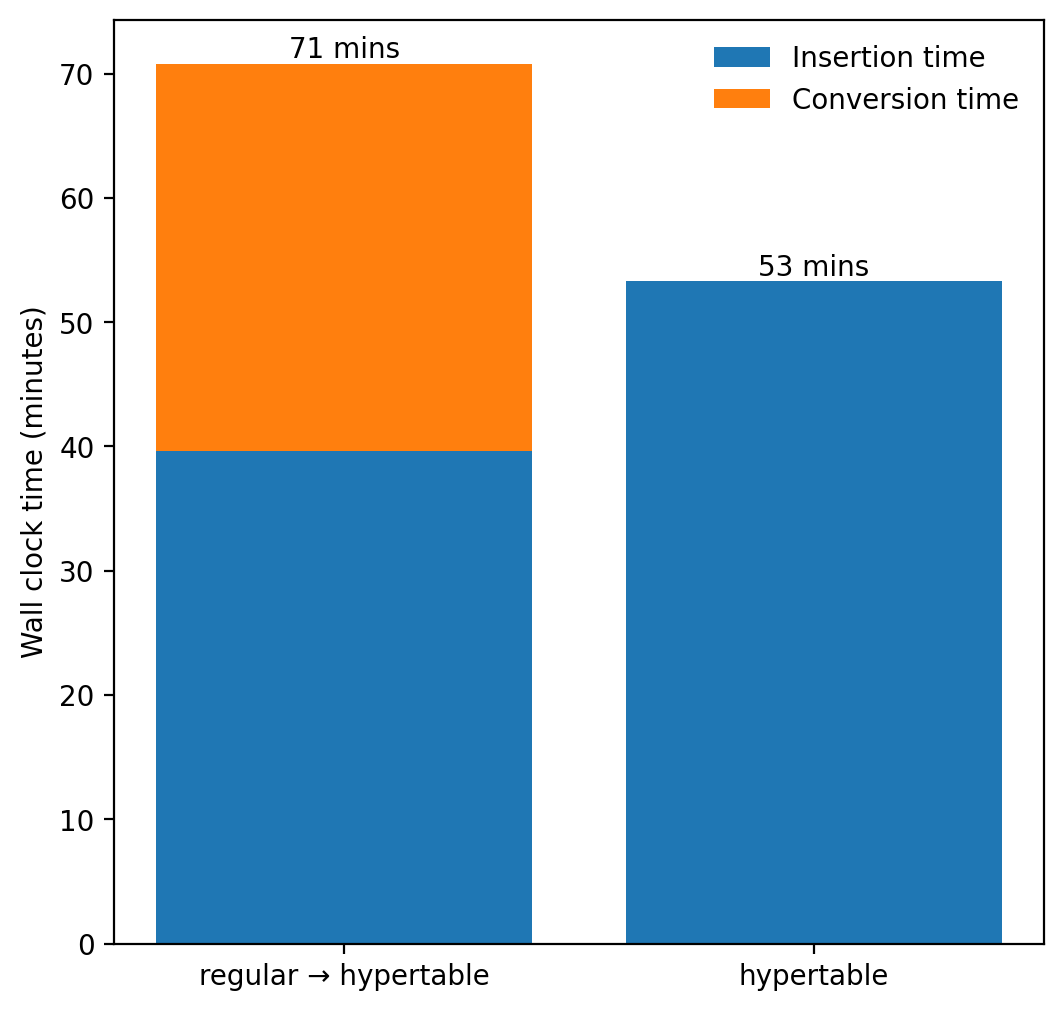
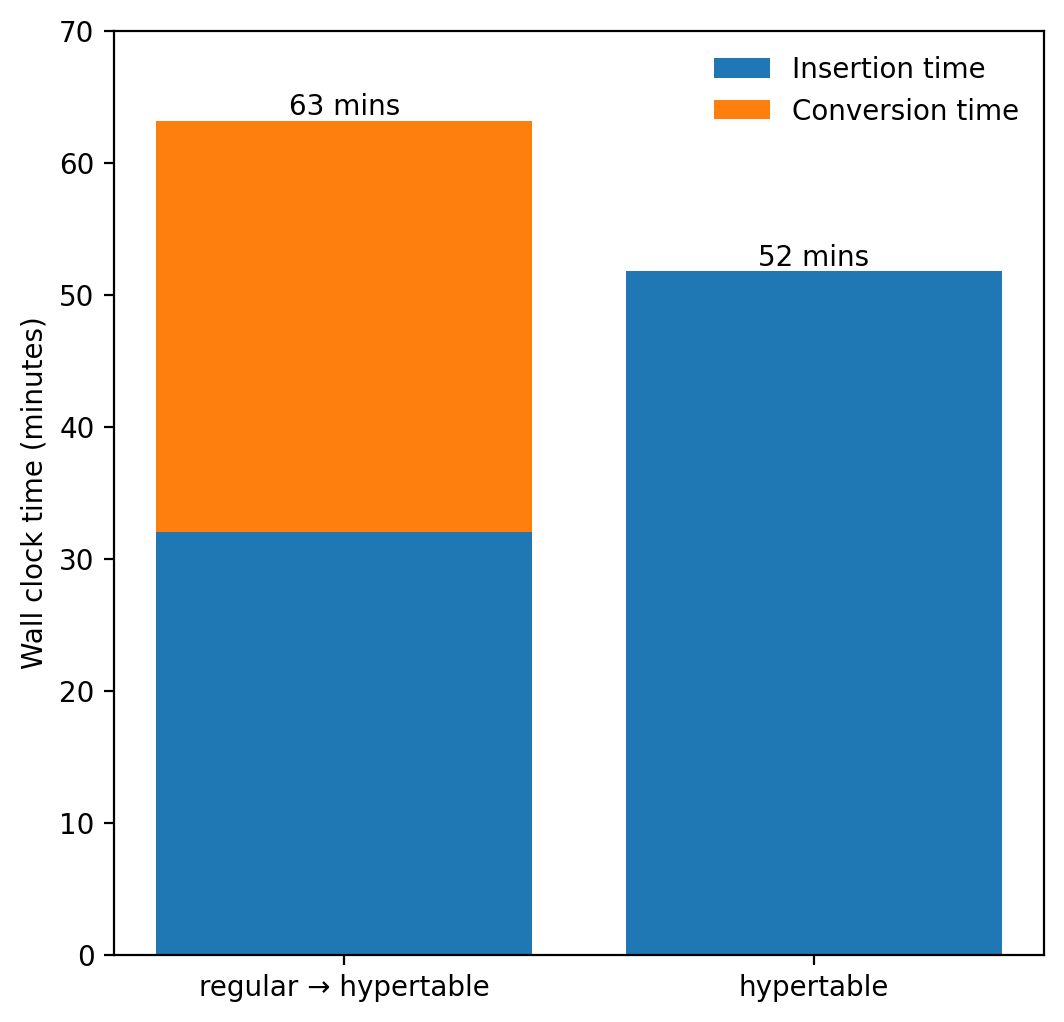
Update conversion time plot

diff --git a/plot_conversion_time.py b/plot_conversion_time.py
@@ -2,8 +2,8 @@ import numpy as np
 import matplotlib as mpl
 import matplotlib.pyplot as plt
 
-t_regular = 2380.1216
-t_hypertable = 3196.6924
+t_regular = 1920.3047
+t_hypertable = 3105.8773
 t_conversion = 1868.793172
 
 benchmark_times = {
